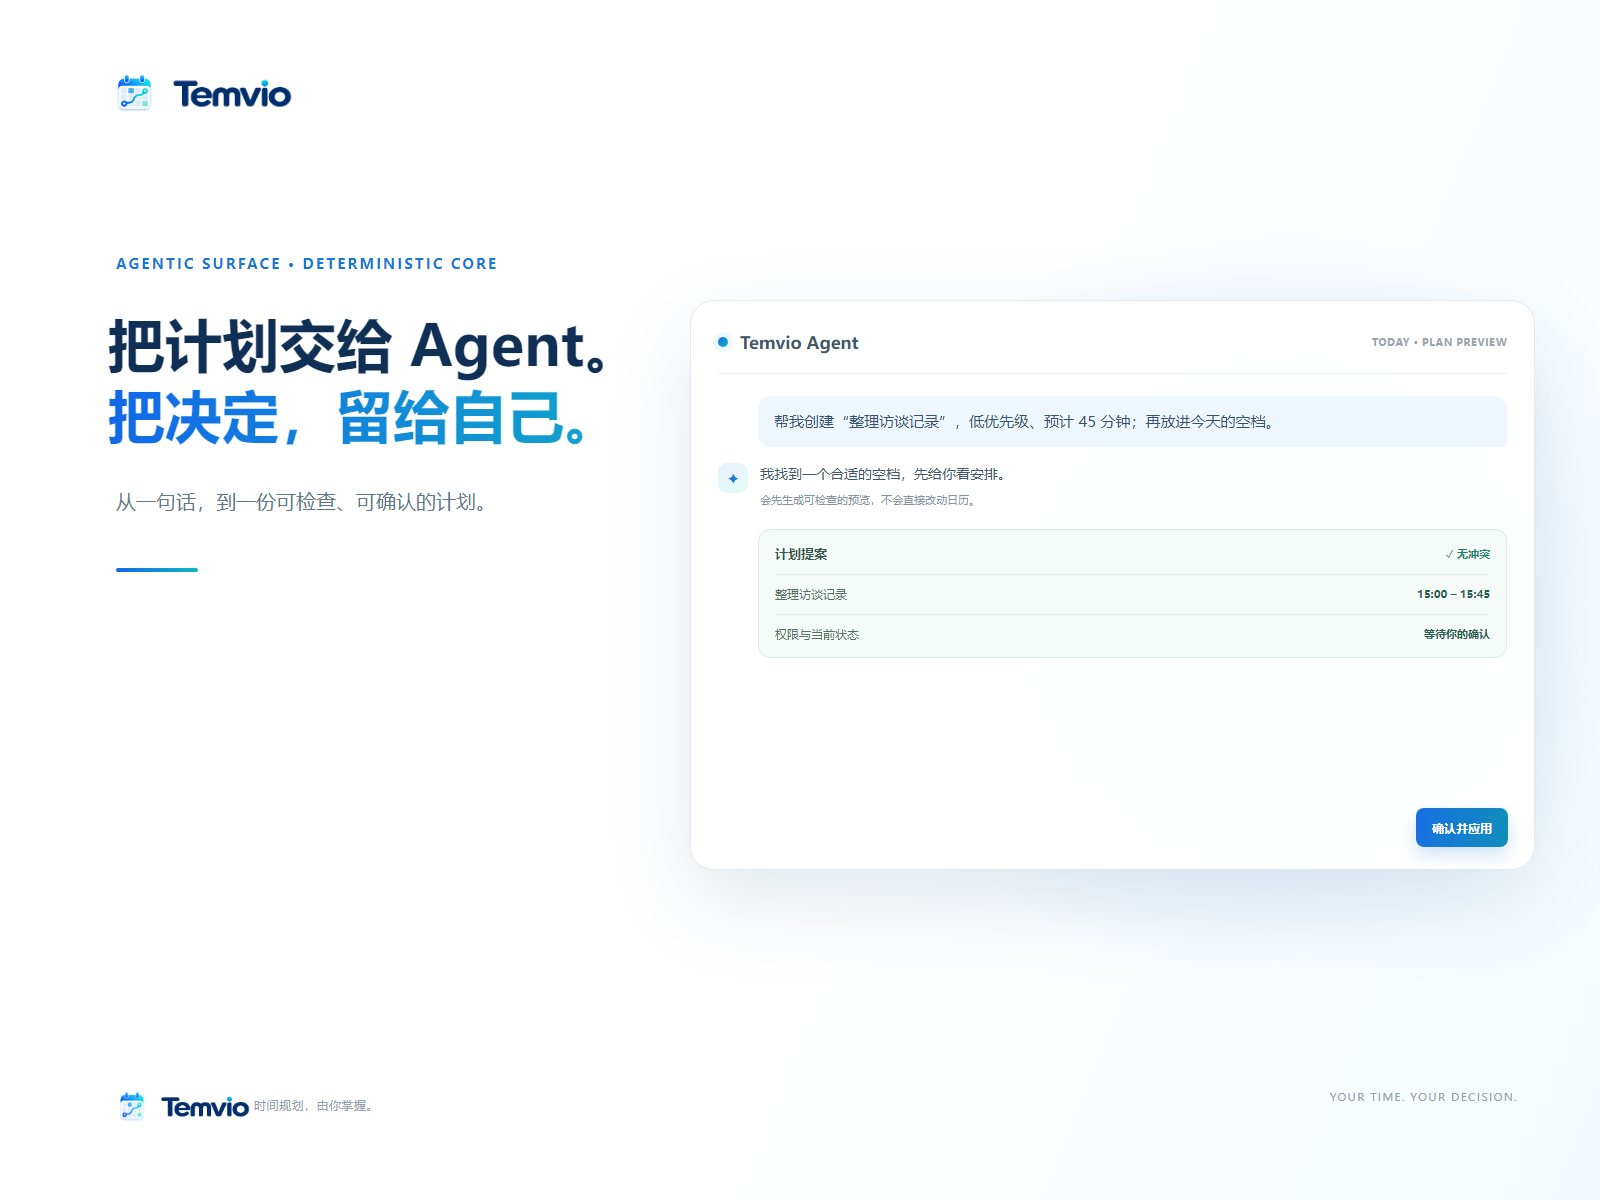
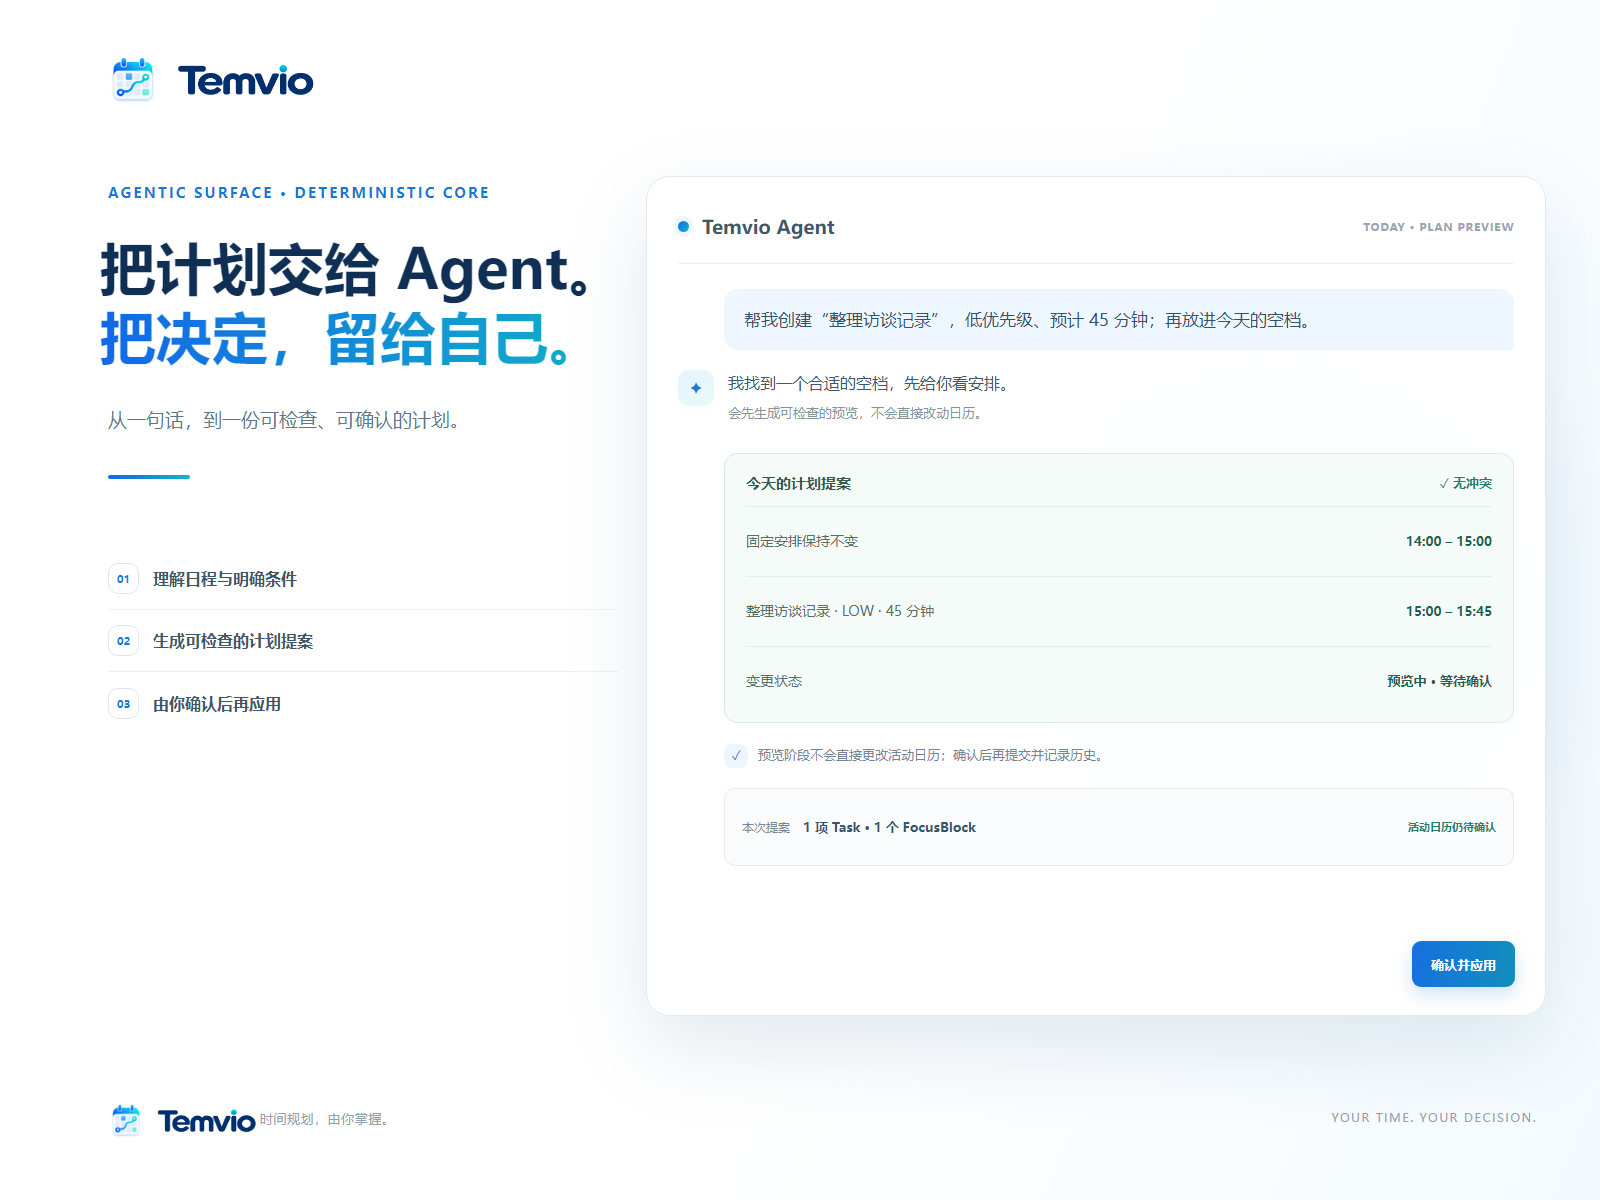
fix(promo): tighten 4x3 cover layout

diff --git a/promo/cover-4x3.html b/promo/cover-4x3.html
@@ -8,11 +8,11 @@
     :root{font-family:Inter,"SF Pro Display","PingFang SC","Microsoft YaHei","Segoe UI",sans-serif;color:#102f55;font-synthesis:none}
     *{box-sizing:border-box}html,body{margin:0;width:1600px;height:1200px;overflow:hidden;background:#fff}#cover{position:relative;width:1600px;height:1200px;overflow:hidden;background:linear-gradient(112deg,#fff 0%,#fff 56%,#f4fbff 100%)}
     .glow{position:absolute;width:760px;height:760px;right:-28px;top:220px;border-radius:50%;background:radial-gradient(circle,rgba(16,183,194,.13),rgba(32,126,239,.055) 46%,transparent 72%)}
-    .header{position:absolute;left:112px;top:70px;display:flex;align-items:center;gap:12px}.header img:first-child{width:45px;height:45px;object-fit:contain}.header img:last-child{width:126px;height:auto}
-    .eyebrow{position:absolute;left:116px;top:254px;color:#1479d8;font-size:14px;font-weight:750;letter-spacing:.16em}.title{position:absolute;left:108px;top:308px;margin:0;width:655px;font-size:57px;line-height:1.25;letter-spacing:0;font-weight:760;color:#102f55}.title span{display:block}.title .accent{background:linear-gradient(95deg,#1268e8,#10b7c2);-webkit-background-clip:text;background-clip:text;color:transparent}.sub{position:absolute;left:116px;top:485px;color:#617789;font-size:20px;line-height:1.6}.rule{position:absolute;left:116px;top:568px;width:82px;height:4px;border-radius:4px;background:linear-gradient(90deg,#1268e8,#10b7c2)}
-    .brand-lockup{position:absolute;left:116px;bottom:78px;display:flex;align-items:center;gap:10px}.brand-lockup img:first-child{width:32px;height:32px}.brand-lockup img:last-child{width:94px;height:auto}.brand-note{position:absolute;left:254px;bottom:87px;color:#91a0aa;font-size:12px;letter-spacing:.04em}
-    .assistant-card{position:absolute;right:65px;top:300px;width:845px;height:570px;border:1px solid #e1eaf0;border-radius:24px;background:rgba(255,255,255,.94);box-shadow:0 32px 86px rgba(34,83,124,.13);padding:25px 27px}.card-head{height:48px;display:flex;align-items:center;border-bottom:1px solid #edf1f4;padding-bottom:16px;color:#42586a;font-size:17px;font-weight:720}.agent-dot{width:10px;height:10px;border-radius:50%;background:linear-gradient(135deg,#1268e8,#10b7c2);box-shadow:0 0 0 5px #edf8fc;margin-right:12px}.card-label{margin-left:auto;color:#97a5ae;font-size:10px;letter-spacing:.06em}.prompt{margin:22px 0 16px 40px;border-radius:13px 13px 4px 13px;background:#eef6ff;color:#31536e;padding:14px 16px;font-size:15px;line-height:1.55}.reply{display:flex;align-items:flex-start;gap:12px;color:#405668;font-size:14px;line-height:1.55}.reply-mark{width:30px;height:30px;flex:0 0 30px;border-radius:9px;background:linear-gradient(145deg,#e7f2ff,#e6fbf8);display:grid;place-items:center;color:#167bd8;font-size:15px;font-weight:800}.reply small{display:block;margin-top:6px;color:#85939c;font-size:11px}.plan{margin:21px 0 0 40px;padding:15px 16px;border:1px solid #d9ebe5;border-radius:12px;background:#f5fbf8}.plan-head{display:flex;align-items:center;color:#34584e;font-size:13px;font-weight:730}.check{margin-left:auto;color:#17866e;font-size:11px}.plan-row{display:flex;align-items:center;margin-top:12px;padding-top:11px;border-top:1px solid #e3efea;color:#566f67;font-size:12px}.plan-row b{margin-left:auto;color:#1d604f;font-size:11px}.confirm{position:absolute;right:26px;bottom:22px;height:39px;padding:0 16px;border-radius:8px;display:flex;align-items:center;color:white;background:linear-gradient(100deg,#176fe2,#118fba);font-size:12px;font-weight:730;box-shadow:0 8px 18px rgba(25,117,198,.2)}
-    .footline{position:absolute;right:82px;bottom:96px;color:#91a0aa;font-size:11px;letter-spacing:.12em}
+    .header{position:absolute;left:106px;top:52px;display:flex;align-items:center;gap:13px}.header img:first-child{width:54px;height:54px;object-fit:contain}.header img:last-child{width:145px;height:auto}
+    .eyebrow{position:absolute;left:108px;top:183px;color:#1479d8;font-size:14px;font-weight:750;letter-spacing:.16em}.title{position:absolute;left:100px;top:233px;margin:0;width:560px;font-size:56px;line-height:1.24;letter-spacing:0;font-weight:760;color:#102f55}.title span{display:block}.title .accent{background:linear-gradient(95deg,#1268e8,#10b7c2);-webkit-background-clip:text;background-clip:text;color:transparent}.sub{position:absolute;left:108px;top:405px;color:#617789;font-size:19px;line-height:1.6}.rule{position:absolute;left:108px;top:475px;width:82px;height:4px;border-radius:4px;background:linear-gradient(90deg,#1268e8,#10b7c2)}
+    .feature-list{position:absolute;left:108px;top:548px;width:510px}.feature{display:flex;align-items:center;gap:14px;min-height:62px;border-bottom:1px solid #edf1f4;color:#405668;font-size:16px;font-weight:650}.feature:last-child{border:0}.feature i{width:31px;height:31px;border:1px solid #dce8ef;border-radius:10px;display:grid;place-items:center;color:#167bd8;font-size:11px;font-style:normal;font-weight:750;background:#fff}.brand-lockup{position:absolute;left:108px;bottom:62px;display:flex;align-items:center;gap:10px}.brand-lockup img:first-child{width:36px;height:36px}.brand-lockup img:last-child{width:105px;height:auto}.brand-note{position:absolute;left:260px;bottom:73px;color:#91a0aa;font-size:13px;letter-spacing:.04em}
+    .assistant-card{position:absolute;right:54px;top:176px;width:900px;height:840px;border:1px solid #e1eaf0;border-radius:24px;background:rgba(255,255,255,.94);box-shadow:0 32px 86px rgba(34,83,124,.13);padding:29px 31px}.card-head{height:58px;display:flex;align-items:center;border-bottom:1px solid #edf1f4;padding-bottom:17px;color:#42586a;font-size:19px;font-weight:720}.agent-dot{width:11px;height:11px;border-radius:50%;background:linear-gradient(135deg,#1268e8,#10b7c2);box-shadow:0 0 0 5px #edf8fc;margin-right:13px}.card-label{margin-left:auto;color:#97a5ae;font-size:11px;letter-spacing:.07em}.prompt{margin:25px 0 20px 46px;border-radius:14px 14px 4px 14px;background:#eef6ff;color:#31536e;padding:17px 20px;font-size:17px;line-height:1.58}.reply{display:flex;align-items:flex-start;gap:14px;color:#405668;font-size:16px;line-height:1.58}.reply-mark{width:36px;height:36px;flex:0 0 36px;border-radius:10px;background:linear-gradient(145deg,#e7f2ff,#e6fbf8);display:grid;place-items:center;color:#167bd8;font-size:17px;font-weight:800}.reply small{display:block;margin-top:8px;color:#85939c;font-size:13px}.plan{margin:29px 0 0 46px;padding:19px 21px;border:1px solid #d9ebe5;border-radius:13px;background:#f5fbf8}.plan-head{display:flex;align-items:center;color:#34584e;font-size:15px;font-weight:730}.check{margin-left:auto;color:#17866e;font-size:13px}.plan-row{display:flex;align-items:center;min-height:57px;margin-top:13px;padding-top:12px;border-top:1px solid #e3efea;color:#566f67;font-size:14px}.plan-row b{margin-left:auto;color:#1d604f;font-size:13px}.preview-note{margin:21px 0 0 46px;color:#718594;font-size:13px;line-height:1.6;display:flex;align-items:center;gap:10px}.preview-note i{width:24px;height:24px;border-radius:8px;background:#edf5ff;display:grid;place-items:center;color:#167bd8;font-size:13px;font-style:normal;font-weight:760}.summary{margin:20px 0 0 46px;min-height:78px;padding:14px 17px;border:1px solid #e5ebef;border-radius:11px;background:#fbfcfd;display:flex;align-items:center;gap:13px;color:#748794;font-size:12px}.summary strong{color:#34566c;font-size:13px}.summary em{font-style:normal;margin-left:auto;color:#16836b;font-size:11px;font-weight:720}.confirm{position:absolute;right:30px;bottom:28px;height:46px;padding:0 19px;border-radius:9px;display:flex;align-items:center;color:white;background:linear-gradient(100deg,#176fe2,#118fba);font-size:13px;font-weight:730;box-shadow:0 8px 18px rgba(25,117,198,.2)}
+    .footline{position:absolute;right:63px;bottom:75px;color:#91a0aa;font-size:12px;letter-spacing:.12em}
   </style>
 </head>
 <body>
@@ -23,13 +23,16 @@
     <h1 class="title"><span>把计划交给 Agent。</span><span class="accent">把决定，留给自己。</span></h1>
     <div class="sub">从一句话，到一份可检查、可确认的计划。</div>
     <div class="rule"></div>
+    <div class="feature-list"><div class="feature"><i>01</i>理解日程与明确条件</div><div class="feature"><i>02</i>生成可检查的计划提案</div><div class="feature"><i>03</i>由你确认后再应用</div></div>
     <div class="brand-lockup"><img src="assets/temvio-icon-transparent.png" alt=""/><img src="assets/temvio-wordmark-transparent.png" alt="Temvio"/></div>
     <div class="brand-note">时间规划，由你掌握。</div>
     <section class="assistant-card" aria-label="Agent planning preview">
       <div class="card-head"><i class="agent-dot"></i>Temvio Agent<span class="card-label">TODAY · PLAN PREVIEW</span></div>
       <div class="prompt">帮我创建“整理访谈记录”，低优先级、预计 45 分钟；再放进今天的空档。</div>
       <div class="reply"><i class="reply-mark">✦</i><div>我找到一个合适的空档，先给你看安排。<small>会先生成可检查的预览，不会直接改动日历。</small></div></div>
-      <div class="plan"><div class="plan-head">计划提案 <span class="check">✓ 无冲突</span></div><div class="plan-row"><span>整理访谈记录</span><b>15:00 – 15:45</b></div><div class="plan-row"><span>权限与当前状态</span><b>等待你的确认</b></div></div>
+      <div class="plan"><div class="plan-head">今天的计划提案 <span class="check">✓ 无冲突</span></div><div class="plan-row"><span>固定安排保持不变</span><b>14:00 – 15:00</b></div><div class="plan-row"><span>整理访谈记录 · LOW · 45 分钟</span><b>15:00 – 15:45</b></div><div class="plan-row"><span>变更状态</span><b>预览中 · 等待确认</b></div></div>
+      <div class="preview-note"><i>✓</i>预览阶段不会直接更改活动日历；确认后再提交并记录历史。</div>
+      <div class="summary"><span>本次提案</span><strong>1 项 Task · 1 个 FocusBlock</strong><em>活动日历仍待确认</em></div>
       <div class="confirm">确认并应用</div>
     </section>
     <div class="footline">YOUR TIME. YOUR DECISION.</div>
